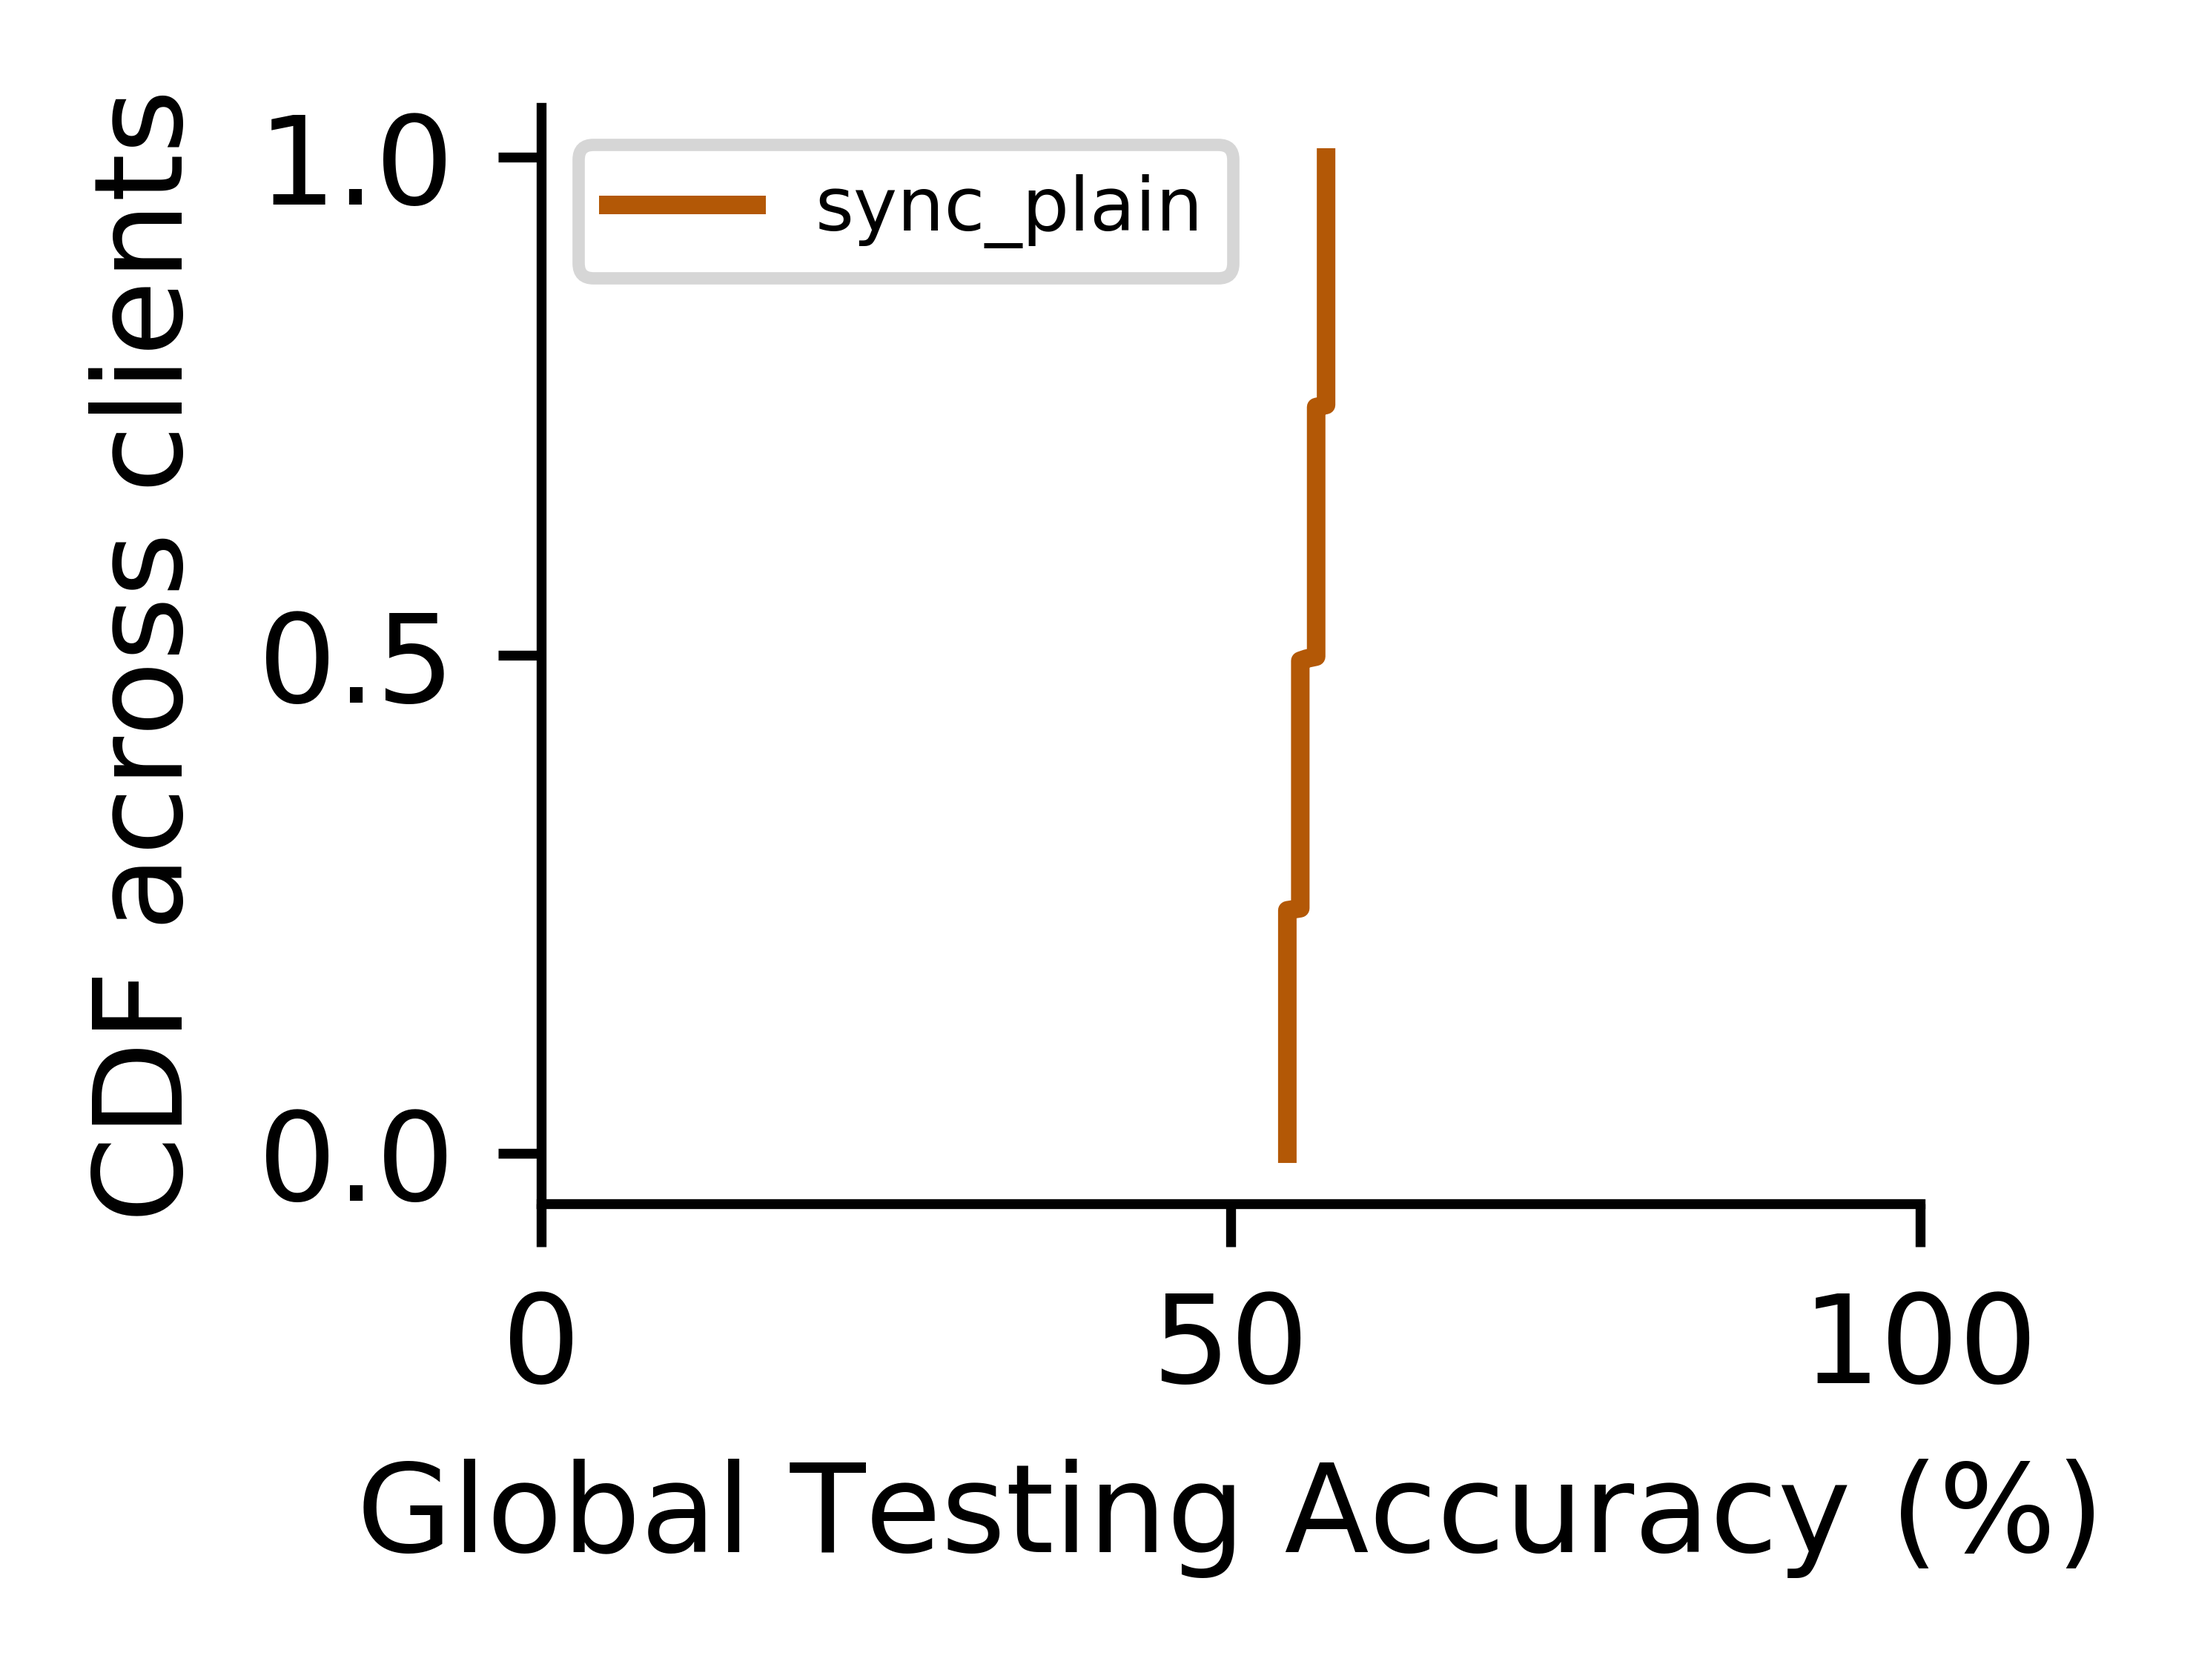
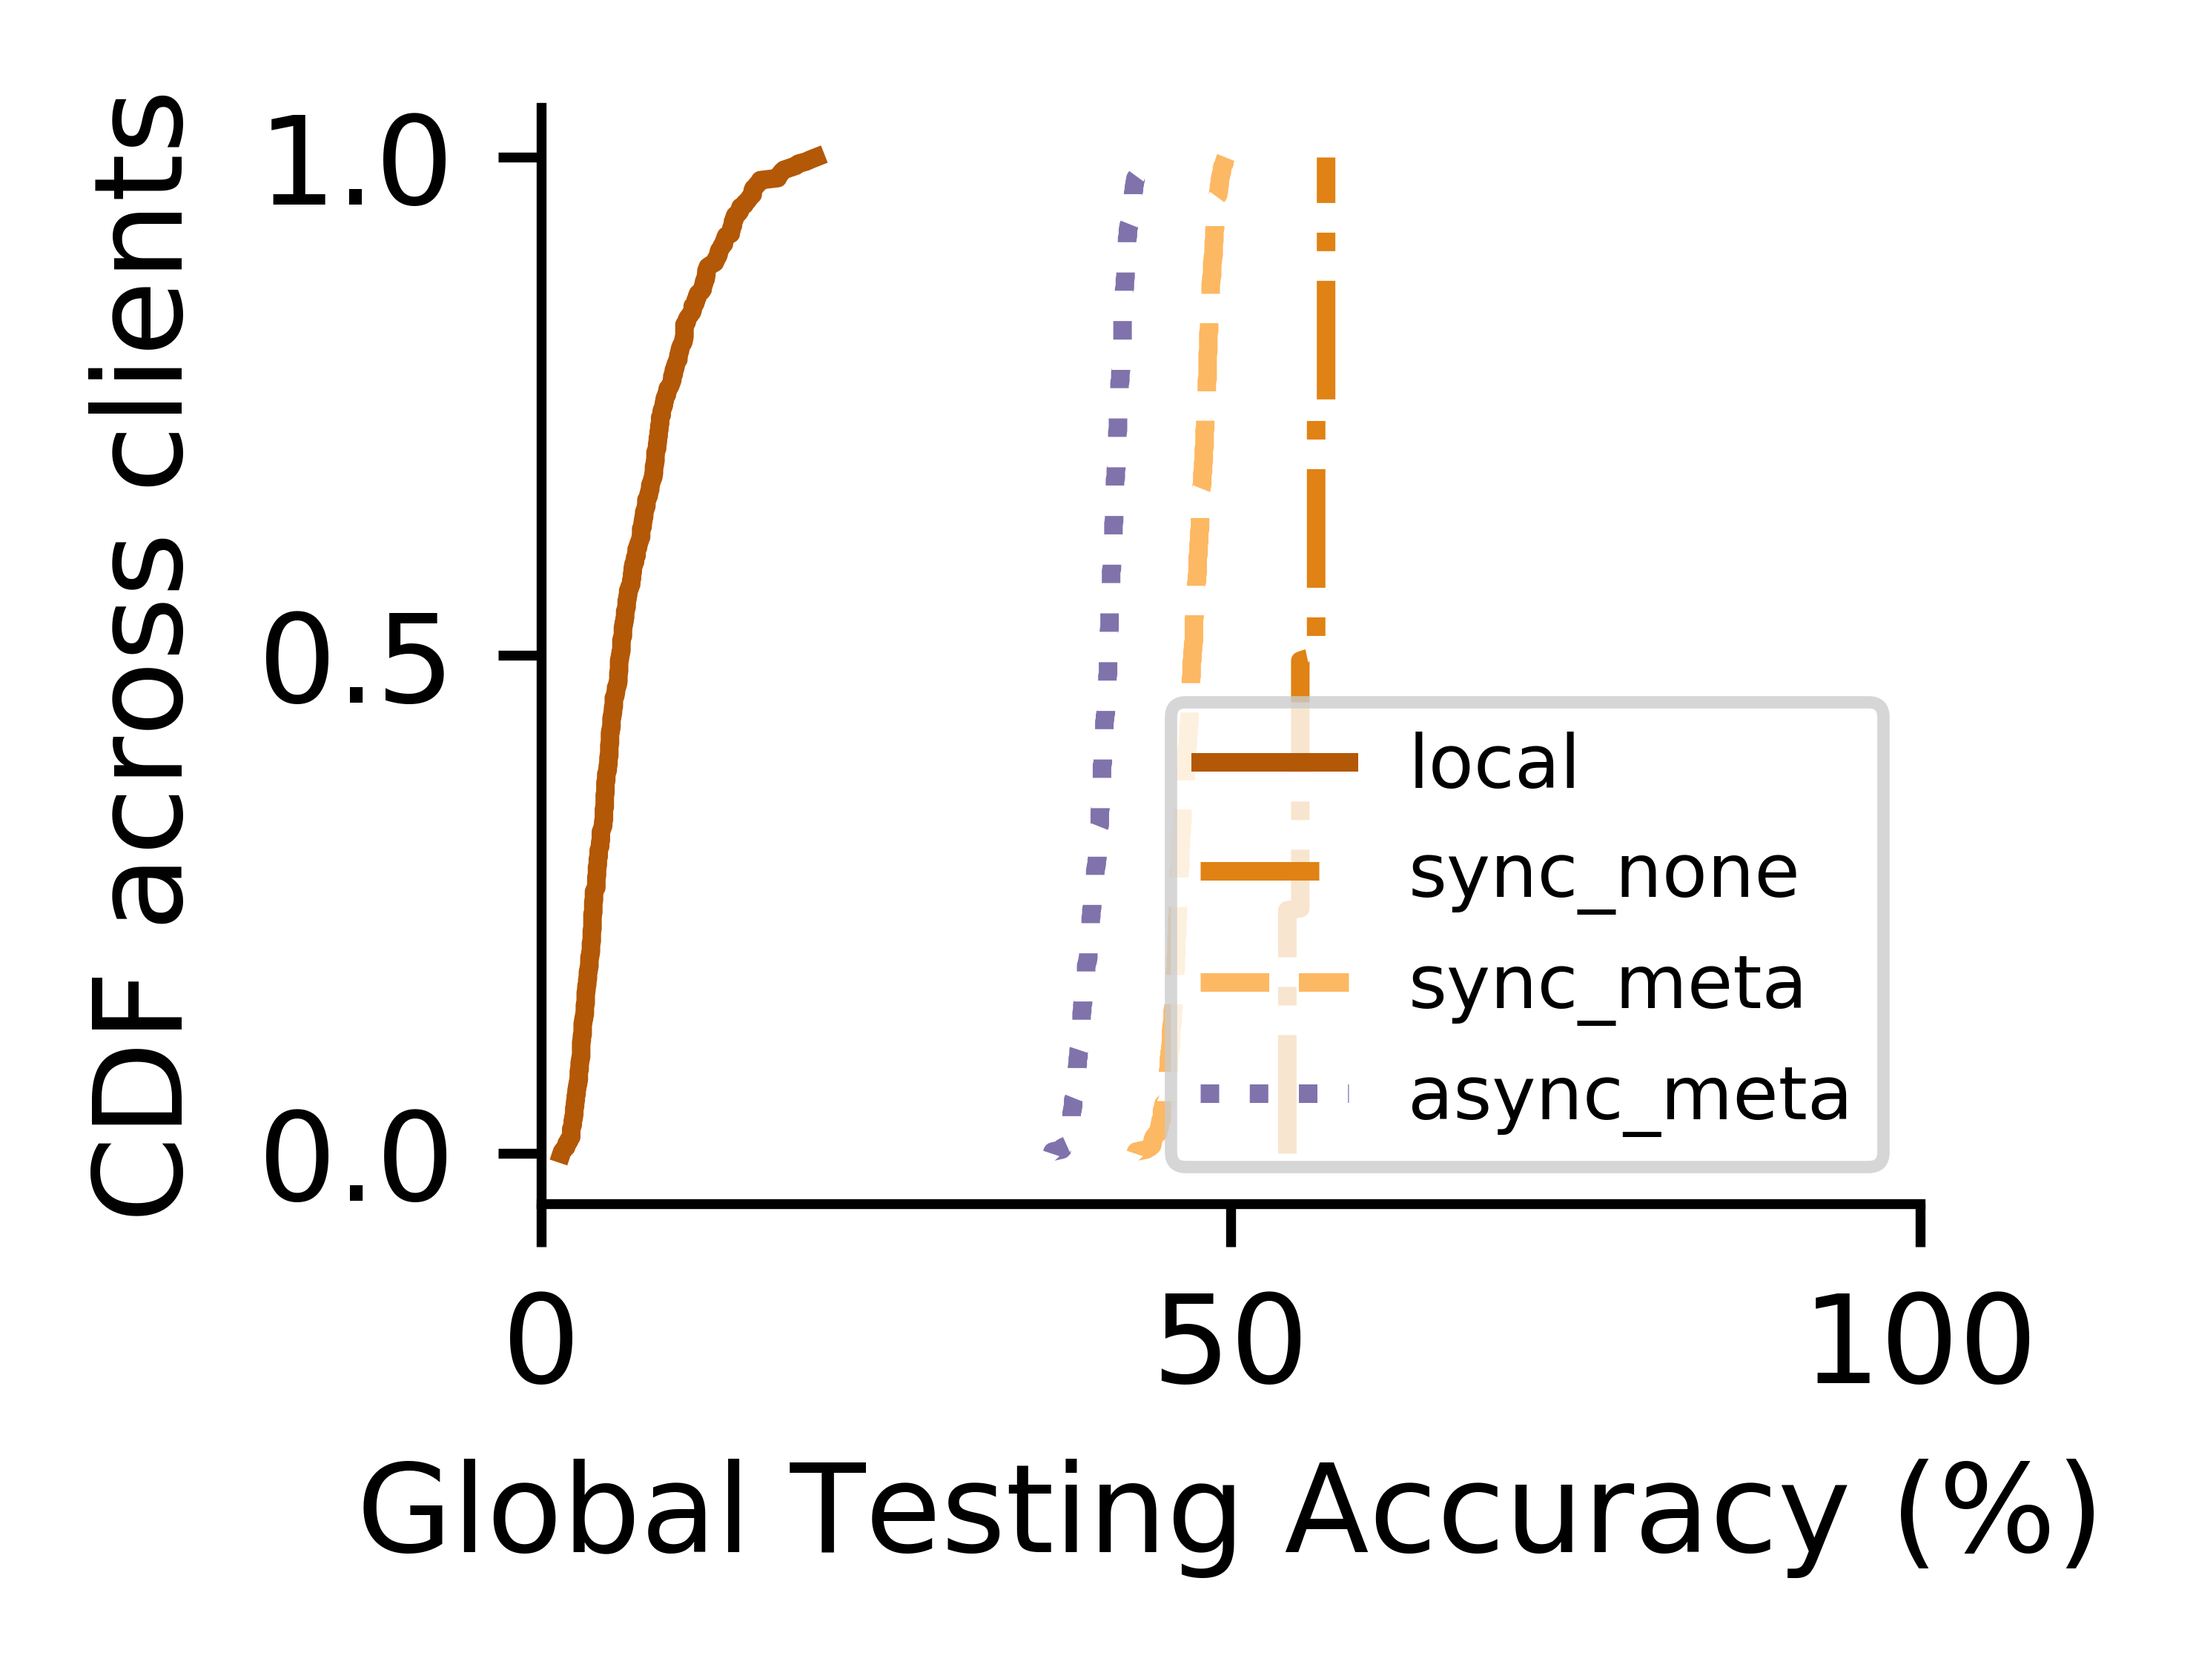
ns

Changed region(s): [[0.2488, 0.0622, 0.8709, 0.7159]]

diff --git a/core/evals/my_perf.py b/core/evals/my_perf.py
@@ -16,7 +16,7 @@ def plot_line(datas, xs, linelabels=None, label=None, y_label="CDF", name="my_pl
     fig = plt.figure(figsize=(2, 1.6), dpi=1200)  # 2.5 inch for 1/3 double column width
     ax = fig.add_subplot(111)
 
-    colors = ['#b35806', '#f1a340', '#998ec3', '#542788']
+    colors = ['#b35806','#e08214','#fdb863','#8073ac','#542788']
     # linetype = ['-']
     linetype = ['-', '--']
     # markertype = ['o', '|', '+', 'x']
@@ -33,10 +33,12 @@ def plot_line(datas, xs, linelabels=None, label=None, y_label="CDF", name="my_pl
         #          linewidth=1.)
         # X_max = min(X_max, max(xs[i]))
 
-    legend_properties = {'size': _fontsize}
+    # legend_properties = {'size': _fontsize}
 
-    plt.legend(prop=legend_properties,
-        frameon=False)
+    # plt.legend(prop=legend_properties,
+        # frameon=False)
+    plt.legend(ncol=2, frameon=False,
+               bbox_to_anchor=(1., -0.3), fontsize=7)
 
     ax.spines['right'].set_visible(False)
     ax.spines['top'].set_visible(False)
@@ -60,7 +62,7 @@ def plot_line_2(datas, xs, linelabels=None, label=None, y_label="CDF", name="my_
     fig = plt.figure(figsize=(2, 1.6), dpi=1200)  # 2.5 inch for 1/3 double column width
     ax = fig.add_subplot(111)
 
-    colors = ['#b35806', '#f1a340', '#998ec3', '#542788']
+    colors = ['#b35806','#e08214','#fdb863','#8073ac','#542788']
     linetype = ['-']
     # markertype = ['o', '|', '+', 'x']
     #
@@ -96,13 +98,13 @@ def plot_line_2(datas, xs, linelabels=None, label=None, y_label="CDF", name="my_
     plt.savefig(name, bbox_inches='tight')
 
 def run(task_prefix):
-    personalized = "meta" # "meta" or "none" or "ditto"
+    # personalized = "meta" # "meta" or "none" or "ditto"
     task_dict = {
-        # f"local_none_all_test_60": "local",
-        # f"random_{personalized}_all_test": "random",
-        # f"oort_{personalized}_all_test": "oort",
-        # f"async_{personalized}_all_test_100_60": "async",
-        f"random_none_all_test": "sync_plain"
+        f"local_none_all_test_60": "local",
+        f"random_none_all_test": "sync_plain",
+        f"random_meta_all_test": f"sync_meta",
+        f"async_meta_all_test_100_60": "async_meta",
+        f"async_none_all_test_60": "async_none"
     }
 
     # x-axis

diff --git a/core/evals/my_perf_2.py b/core/evals/my_perf_2.py
@@ -7,9 +7,9 @@ from datetime import datetime
 
 log_dir = os.path.join(os.getcwd(), 'history')
 focus_str_in_agg_local = "FL Local Testing"
-focus_str_in_exe_local = "(Local) After aggregation"
+focus_str_in_exe_local = "(Local) After"
 focus_str_in_agg_global = "FL Testing"
-focus_str_in_exe_global = "] After aggregation"
+focus_str_in_exe_global = "] After"
 
 
 def within_the_range(ts_str, sts_str, ets_str):
@@ -69,7 +69,7 @@ def my_cdf(datas, labels, xlabel, ylabel, path):
     fig = plt.figure(figsize=(2, 1.6), dpi=1200)
     ax = fig.add_subplot(111)
 
-    colors = ['#b35806','#f1a340', '#998ec3','#542788']
+    colors = ['#b35806','#e08214','#fdb863','#8073ac','#542788']
     linetype = ['-', '-.', '--', ':']
 
     for idx, data in enumerate(datas):
@@ -87,24 +87,28 @@ def my_cdf(datas, labels, xlabel, ylabel, path):
 
 
 def run(task):
-    personalized = "meta"
+    # personalized = "meta"
     task_dict = {
-        # f"{task}_local_none_all_test_60": {
-        #     "virtual_clock": -1,
-        #     "label": "local"
-        # },
-        # f"{task}_random_{personalized}_all_test": {
-        #     "virtual_clock": -1,
-        #     "label": "fed_sync"
-        # },
-        # f"{task}_async_{personalized}_all_test_100_60": {
-        #     "virtual_clock": -1,
-        #     "label": "fed_async"
-        # },
+        f"{task}_local_none_all_test_60" : {
+            "virtual_clock": -1,
+            "label": "local"
+        },
         f"{task}_random_none_all_test": {
             "virtual_clock": -1,
-            "label": "sync_plain"
-        }
+            "label": "sync_none"
+        },
+        f"{task}_random_meta_all_test": {
+            "virtual_clock": -1,
+            "label": "sync_meta"
+        },
+        f"{task}_async_meta_all_test_100_60": {
+            "virtual_clock": -1,
+            "label": "async_meta"
+        },
+        # f"{task}_async_none_all_test_60": {
+        #     "virtual_clock": -1,
+        #     "label": "async_none"
+        # },
     }
 
     test_accs_local_list = []
